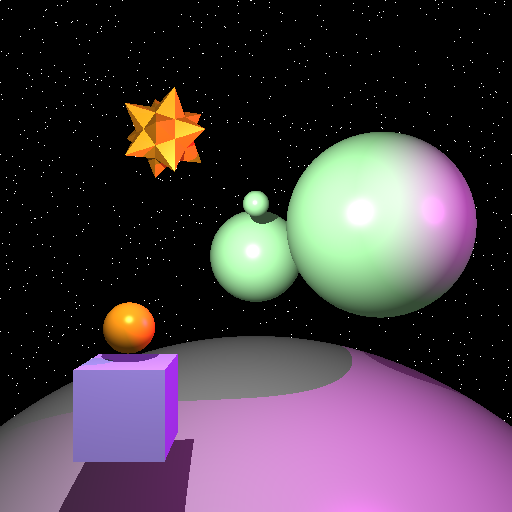
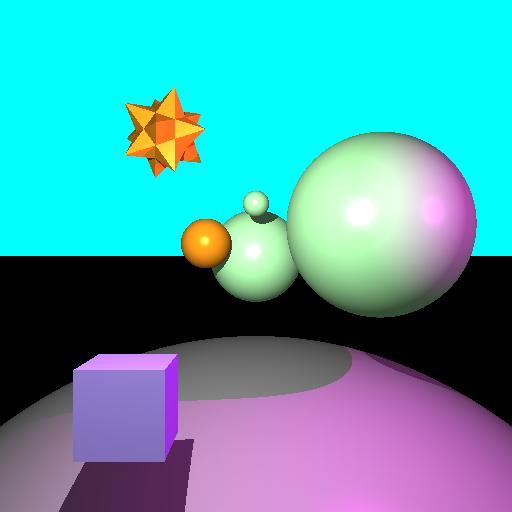
something got fixed

diff --git a/A4/A4.cpp b/A4/A4.cpp
@@ -75,7 +75,16 @@ glm::dvec3 get_color(SceneNode *root, std::pair<glm::dvec3, glm::dvec3> ray, con
     }
     else
     {
-        // if (glm::dot(glm::dvec3(0.0, 1.0, 0.0), glm::dvec3(ray.second - ray.first)) > 0)
+        if (glm::dot(glm::dvec3(0.0, 1.0, 0.0), glm::dvec3(ray.second - ray.first)) > 0)
+        {
+            return glm::dvec3(0.0, 1.0, 1.0);
+        }
+        else
+        {
+            return glm::dvec3(0.0);
+        }
+        // auto probability_of_star = 0.005;
+        // if ((double)rand() / RAND_MAX < probability_of_star)
         // {
         //     return glm::dvec3(1.0);
         // }
@@ -83,15 +92,6 @@ glm::dvec3 get_color(SceneNode *root, std::pair<glm::dvec3, glm::dvec3> ray, con
         // {
         //     return glm::dvec3(0.0);
         // }
-        auto probability_of_star = 0.005;
-        if ((double)rand() / RAND_MAX < probability_of_star)
-        {
-            return glm::dvec3(1.0);
-        }
-        else
-        {
-            return glm::dvec3(0.0);
-        }
     }
 }
 
